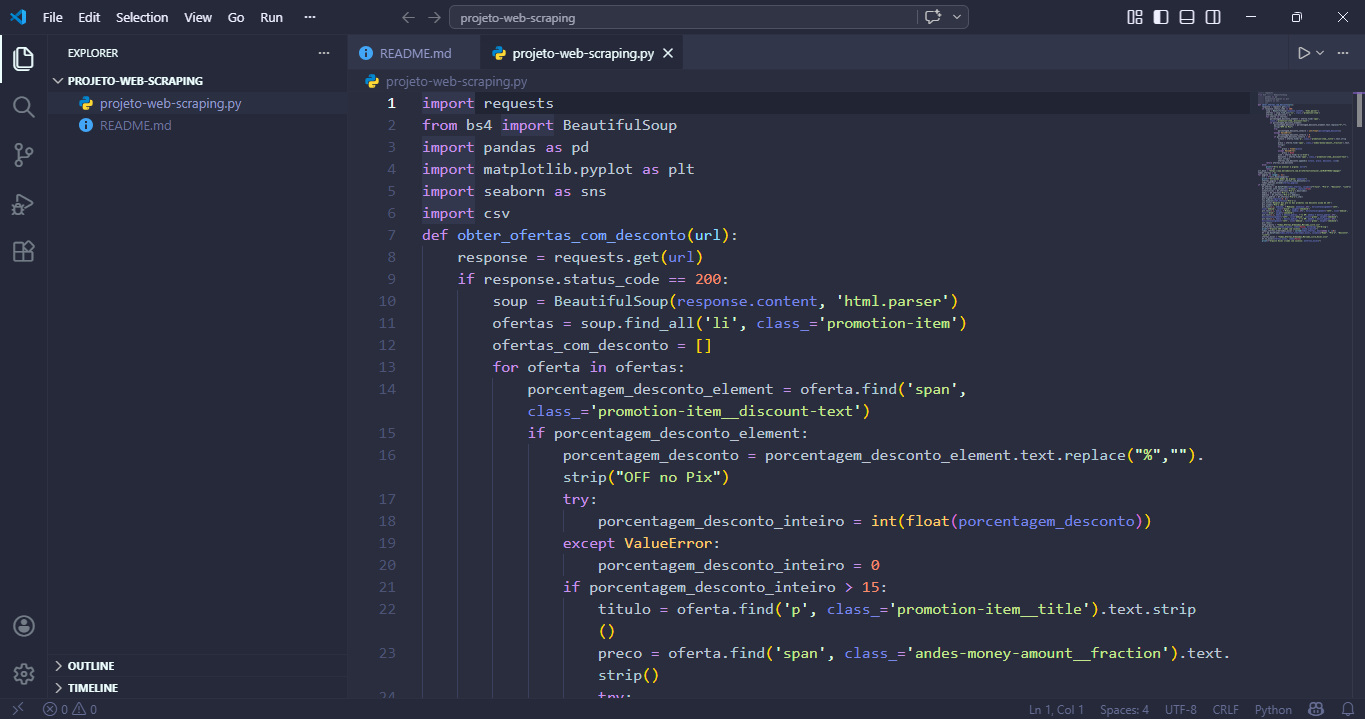
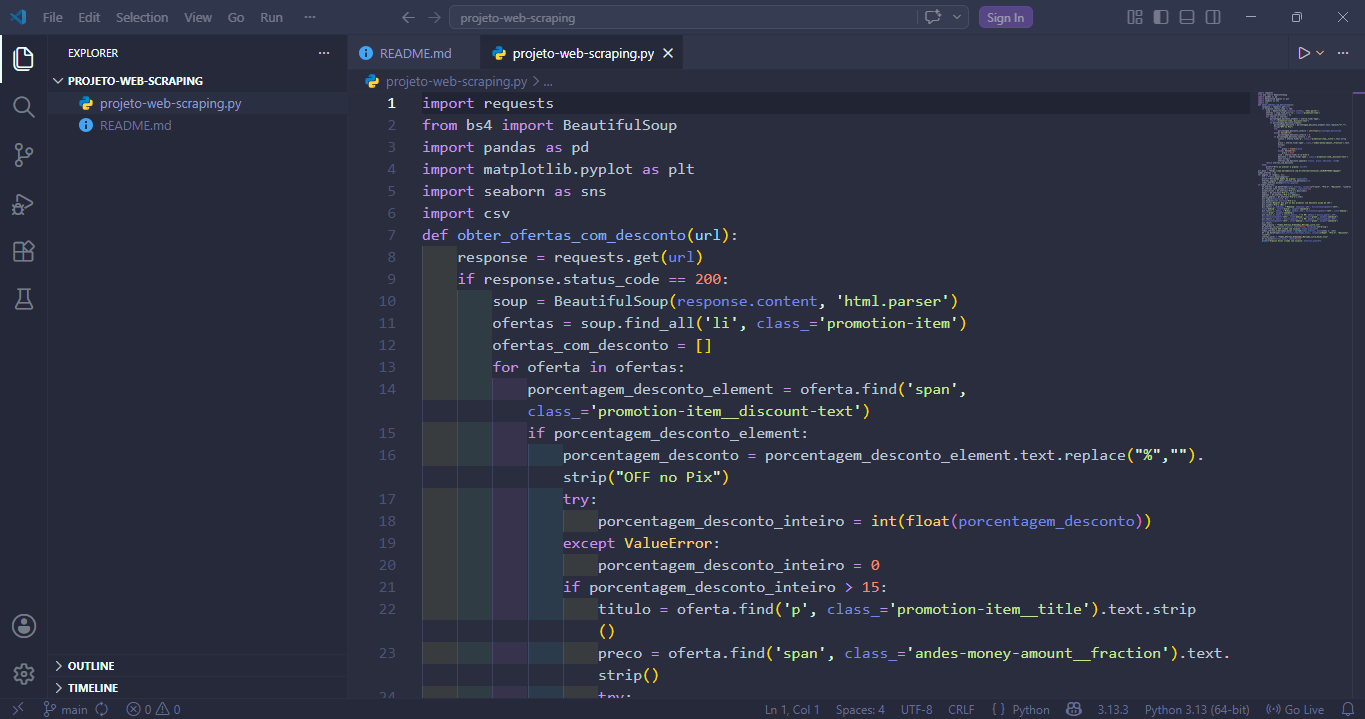
Teste

diff --git a/home.html b/home.html
@@ -422,23 +422,6 @@
                         </section>
                         <section class="skills-section">
                             <div class="skills">
-                                <div class="skill" data-percent="33">
-                                    <div class="label">
-                                        <span>
-                                            Design <i class="fa-solid fa-palette"></i>
-                                        </span>
-                                        <span class="percent">
-                                            0%
-                                        </span>
-                                    </div>
-                                    <div class="barra-interna">
-                                        <div class="bar"></div>
-                                    </div>
-                                </div>
-                            </div>
-                        </section>
-                        <section class="skills-section">
-                            <div class="skills">
                                 <div class="skill" data-percent="66">
                                     <div class="label">
                                         <span>
@@ -460,23 +443,6 @@
                                     <div class="label">
                                         <span>
                                             Wix <i class="fa-brands fa-wix"></i>
-                                        </span>
-                                        <span class="percent">
-                                            0%
-                                        </span>
-                                    </div>
-                                    <div class="barra-interna">
-                                        <div class="bar"></div>
-                                    </div>
-                                </div>
-                            </div>
-                        </section>
-                        <section class="skills-section">
-                            <div class="skills">
-                                <div class="skill" data-percent="66">
-                                    <div class="label">
-                                        <span>
-                                            Canva <i class="fa-solid fa-paintbrush"></i>
                                         </span>
                                         <span class="percent">
                                             0%